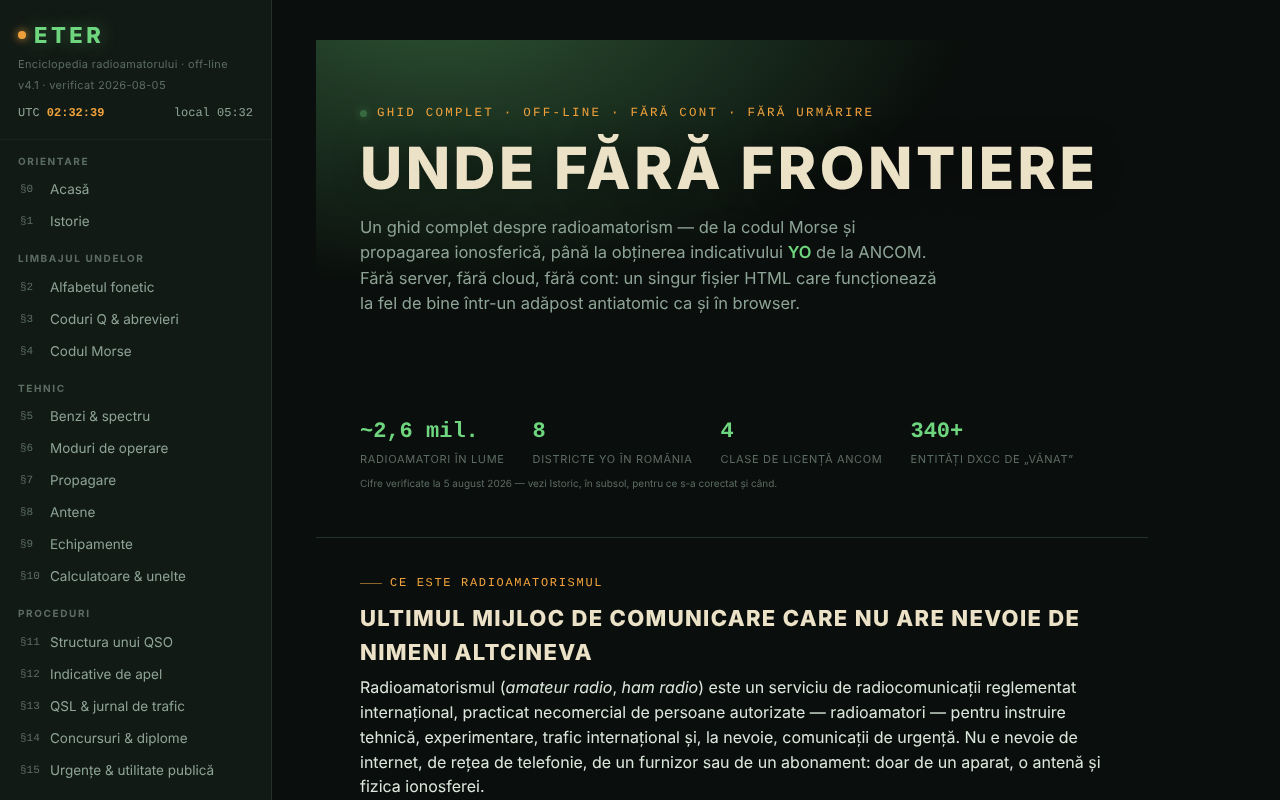
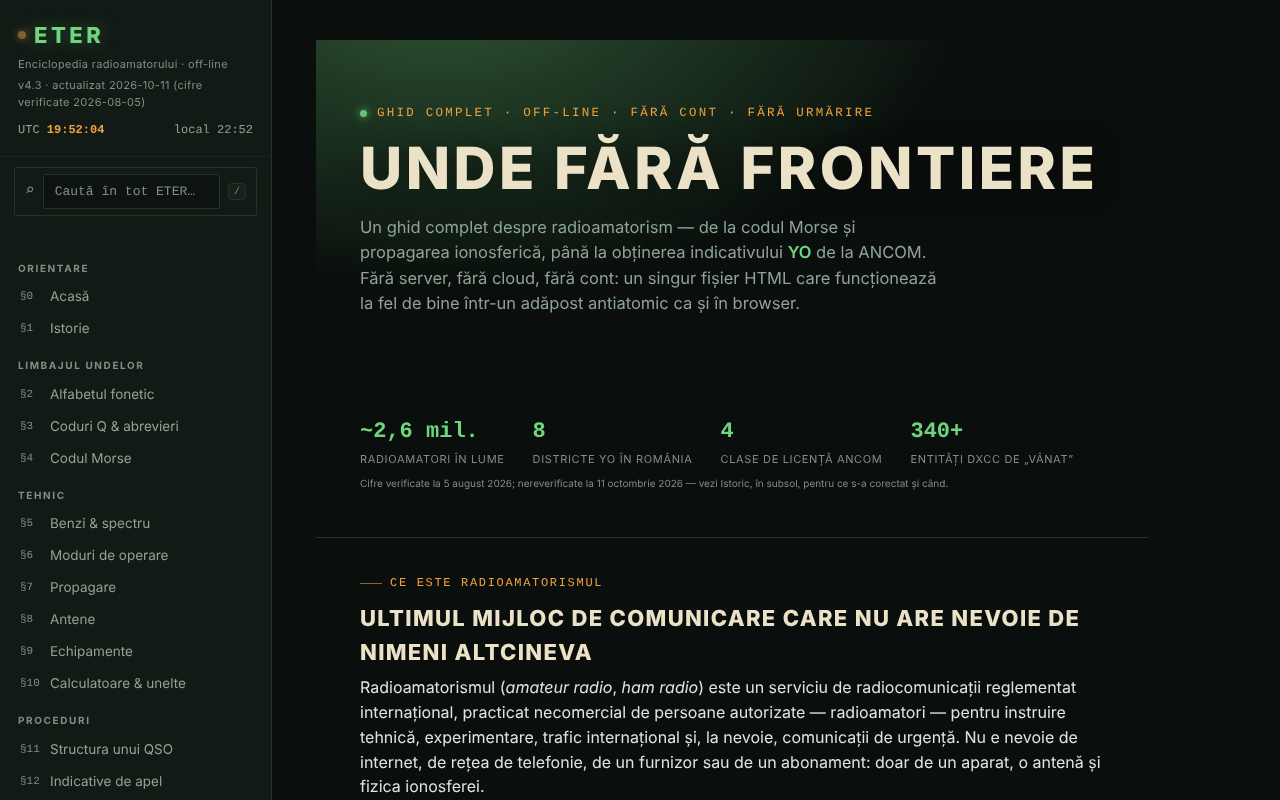
Runda 6 (11 octombrie 2026): reparații și îmbunătățiri
Claude-Session: https://claude.ai/code/session_01D2sCEb3hy3nutYexhUfQFs

diff --git a/index.html b/index.html
@@ -2,7 +2,7 @@
 <html lang="ro">
 <head>
 <meta charset="UTF-8">
-<meta http-equiv="Content-Security-Policy" content="default-src 'none'; script-src 'unsafe-inline'; style-src 'unsafe-inline'; img-src 'self' data: blob:; media-src 'self' data: blob:; connect-src 'self' data: blob:; base-uri 'none'; form-action 'none'">
+<meta http-equiv="Content-Security-Policy" content="default-src 'none'; script-src 'sha256-eEs71EP8Zl0TxjYAjbNK3bKInv9BA9VzHkrwECbSzdg=' 'sha256-lYM53oh0REoSy7NyxH67GQqoSmsCKCUrWfrny9nitBo=' 'sha256-9q5/PcLl6BDakn9vsuVv1m5MlM3ZUH3Fuij86UWutGo='; style-src 'unsafe-inline'; img-src 'self' data: blob:; media-src 'self' data: blob:; connect-src 'self' data: blob:; base-uri 'none'; form-action 'none'">
 <meta name="viewport" content="width=device-width, initial-scale=1.0">
 <title>ETER — Enciclopedia radioamatorului</title>
 <meta name="description" content="Ghid complet, off-line, despre radioamatorism: coduri Q, Morse, benzi, antene, propagare, indicative, licențiere ANCOM și multe altele.">
@@ -127,6 +127,16 @@ button{font-family:inherit;}
   display:flex;align-items:center;justify-content:center;
 }
 
+.gsearch{padding:0 14px 6px;}
+.gsearch .searchbox{margin:6px 0 4px;padding:6px 10px;}
+.gsearch .searchbox input{font-size:13px;min-width:0;}
+.gsearch kbd{font-family:var(--font-mono);font-size:10px;color:var(--ink-faint);border:1px solid var(--line);border-radius:4px;padding:0 5px;}
+.gres{display:flex;flex-direction:column;gap:2px;margin:4px 0 6px;}
+.gres button{display:block;text-align:left;width:100%;background:none;border:1px solid transparent;border-radius:6px;color:var(--ink-dim);padding:6px 8px;cursor:pointer;font-family:var(--font-body);font-size:12.5px;line-height:1.35;}
+.gres button:hover,.gres button:focus-visible{background:var(--panel-2);color:var(--ink);border-color:var(--line);}
+.gres .k{display:block;font-size:10px;letter-spacing:.1em;text-transform:uppercase;color:var(--ink-faint);}
+.gres .t{font-weight:600;color:var(--ink);}
+.gstat{font-size:11px;color:var(--ink-faint);min-height:1em;}
 /* ---------- layout shell ---------- */
 .shell{display:grid;grid-template-columns:var(--sidebar-w) 1fr;min-height:100vh;}
 
@@ -423,8 +433,14 @@ kbd{font-family:var(--font-mono);background:var(--panel-2);border:1px solid var(
   <div class="brandblock">
     <div class="brand"><span class="dot"></span> ETER</div>
     <div class="tagline">Enciclopedia radioamatorului · off-line</div>
-    <div class="tagline">v4.2 · actualizat 2026-10-11 (cifre verificate 2026-08-05)</div>
+    <div class="tagline">v4.3 · actualizat 2026-10-11 (cifre verificate 2026-08-05)</div>
     <div class="clock"><span>UTC <b id="utcClock">--:--:--</b></span><span id="localClock">--:--</span></div>
+  </div>
+
+  <div class="gsearch" role="search">
+    <div class="searchbox"><span class="ico" aria-hidden="true">⌕</span><input type="text" id="gSearch" autocomplete="off" aria-label="Caută în toată enciclopedia" placeholder="Caută în tot ETER…" aria-controls="gRes"><kbd aria-hidden="true">/</kbd></div>
+    <div class="gstat" id="gStat" role="status"></div>
+    <div class="gres" id="gRes"></div>
   </div>
 
   <div class="navgroup">
@@ -1452,7 +1468,7 @@ kbd{font-family:var(--font-mono);background:var(--panel-2);border:1px solid var(
     </div>
   </div>
   <div style="margin-top:18px;font-size:11.5px;color:var(--ink-faint);line-height:1.7;">
-    <b style="color:var(--ink-dim);">Istoric</b> — <span style="font-family:var(--font-mono);">v4.2</span> (2026-10-11): antet de pagină (reper <code>header</code>) pentru bara mobilă, titluri de subsol în ordine corectă (h2), politică CSP strictă (fără rețea externă), fără modificări de conținut ANCOM; cifrele și regulamentele rămân cele verificate la 2026-08-05. · <span style="font-family:var(--font-mono);">v4.1</span> (2026-08-05): 48 de recenzii punctuale, dintre care 9 chiar au dus la schimbări (restul confirmate deja corecte, nu „reparate" degeaba) — cuprinsuri noi pentru secțiunile Morse și identitate/certificate (ambele crescuseră mult), dată de verificare lângă cifrele din hero, punct final „Azi" pe linia temporală, `aria-label` pentru spectrul audio, diagnostic de trimitere extins cu numărul total de diferențe, auto-teste noi pentru pachetul de rezervă. O corecție de-a mea găsită și reparată: atribuisem greșit aglomerarea de unelte secțiunii ANCOM, quiz-ul era vinovatul real.
+    <b style="color:var(--ink-dim);">Istoric</b> — <span style="font-family:var(--font-mono);">v4.3</span> (2026-10-11): căutare globală în meniu (tastă <code>/</code>) peste secțiuni, titluri, coduri Q, abrevieri, glosar și prefixe; CSP cu hash pentru scripturi (fără <code>unsafe-inline</code>); fără modificări de conținut ANCOM. · <span style="font-family:var(--font-mono);">v4.2</span> (2026-10-11): antet de pagină (reper <code>header</code>) pentru bara mobilă, titluri de subsol în ordine corectă (h2), politică CSP strictă (fără rețea externă), fără modificări de conținut ANCOM; cifrele și regulamentele rămân cele verificate la 2026-08-05. · <span style="font-family:var(--font-mono);">v4.1</span> (2026-08-05): 48 de recenzii punctuale, dintre care 9 chiar au dus la schimbări (restul confirmate deja corecte, nu „reparate" degeaba) — cuprinsuri noi pentru secțiunile Morse și identitate/certificate (ambele crescuseră mult), dată de verificare lângă cifrele din hero, punct final „Azi" pe linia temporală, `aria-label` pentru spectrul audio, diagnostic de trimitere extins cu numărul total de diferențe, auto-teste noi pentru pachetul de rezervă. O corecție de-a mea găsită și reparată: atribuisem greșit aglomerarea de unelte secțiunii ANCOM, quiz-ul era vinovatul real.
     <details style="margin-top:4px;"><summary style="cursor:pointer;">versiuni mai vechi (v1.0–v4.0)</summary>
     <span style="font-family:var(--font-mono);">v4.0</span> (2026-08-05): reparat witnessCredential (gardă de tip), corectată cifra din hero, pachet de rezervă, compoziția fișierului. · <span style="font-family:var(--font-mono);">v3.9</span> (2026-08-05): antrenor Koch și de trimitere, legate. · <span style="font-family:var(--font-mono);">v3.8</span> (2026-08-05): ton lateral. · <span style="font-family:var(--font-mono);">v3.7</span> (2026-08-05): antrenor de trimitere. · <span style="font-family:var(--font-mono);">v3.6</span> (2026-08-05): antrenor Koch. · <span style="font-family:var(--font-mono);">v3.5</span> (2026-08-05): accesibilitate, integritate fișier. · <span style="font-family:var(--font-mono);">v3.0–v3.4</span> (2026-08-05): repetiție spațiată, identitate criptografică, certificate W3C VC, QR, martor, revocare, microcredențiale.
     </details>
@@ -1488,7 +1504,7 @@ kbd{font-family:var(--font-mono);background:var(--panel-2);border:1px solid var(
     </details>
   </div>
   <div class="legal">
-    Conținut educațional, verificat la 2026-08-05 (reglementări și cifre; v4.2 din 2026-10-11 repară doar accesibilitatea, fără re-verificarea regulamentelor) — dar regulamentele se schimbă. Pentru orice decizie care contează (înscriere la examen, drepturi exacte pe clasă de certificat, plan de benzi curent), <b>ANCOM</b> și <b>FRR</b> rămân sursele autoritare, nu acest fișier. Fără cookie-uri, fără analytics, fără apeluri către vreun server terț (singura cerere de rețea e verificarea de integritate, opțională, care re-descarcă acest fișier) — tot ce vezi rulează local, în browserul tău.
+    Conținut educațional, verificat la 2026-08-05 (reglementări și cifre; v4.2 și v4.3 din 2026-10-11 nu modifică conținutul de reglementare, fără re-verificarea regulamentelor) — dar regulamentele se schimbă. Pentru orice decizie care contează (înscriere la examen, drepturi exacte pe clasă de certificat, plan de benzi curent), <b>ANCOM</b> și <b>FRR</b> rămân sursele autoritare, nu acest fișier. Fără cookie-uri, fără analytics, fără apeluri către vreun server terț (singura cerere de rețea e verificarea de integritate, opțională, care re-descarcă acest fișier) — tot ce vezi rulează local, în browserul tău.
   </div>
 </footer>
 </main>
@@ -14800,6 +14816,66 @@ async function copyReportInfo(){
   }
   setTimeout(()=>{ btn.textContent = original; }, 2500);
 }
+// ---------- căutare globală (secțiuni, titluri, coduri Q, abrevieri, glosar, prefixe) ----------
+let _gIdx=null;
+function _plain(h){ return new DOMParser().parseFromString(String(h),'text/html').body.textContent.replace(/\s+/g,' ').trim(); }
+function _gBuild(){
+  const idx=[];
+  $$('.navlink').forEach(b=>{ const sec=b.dataset.sec; const lab=b.textContent.replace(/^§\d+/,'').trim(); const no=(b.textContent.match(/^§\d+/)||[''])[0]; idx.push({kind:'Secțiune',title:lab,sub:no,sec,fold:fold(lab),w:3}); });
+  $$('.section').forEach(sec=>{ const sid=sec.id.replace(/^sec-/,''); sec.querySelectorAll('h3').forEach(h=>{ const hc=h.cloneNode(true); hc.querySelectorAll('.n').forEach(x=>x.remove()); const t=_plain(hc.textContent); if(t.length>2) idx.push({kind:'Titlu',title:t,sub:(sec.querySelector('h2')||{textContent:''}).textContent.trim(),sec:sid,head:h,fold:fold(t),w:2}); }); });
+  QCODES.forEach(([c,d])=>idx.push({kind:'Cod Q',title:c,sub:_plain(d),sec:'qcoduri',input:'qSearch',q:c,fold:fold(c+' '+_plain(d)),w:1}));
+  ABBR.forEach(([c,d])=>idx.push({kind:'Abreviere',title:c,sub:_plain(d),sec:'qcoduri',input:'abbrSearch',q:c,fold:fold(c+' '+_plain(d)),w:1}));
+  GLOSSARY.forEach(([c,d])=>idx.push({kind:'Glosar',title:c,sub:_plain(d),sec:'glosar',input:'glosarSearch',q:c,fold:fold(c+' '+_plain(d)),w:1}));
+  PREFIXES.forEach(([c,d])=>idx.push({kind:'Prefix',title:c+' — '+d,sub:'',sec:'indicative',input:'prefixSearch',q:c,fold:fold(c+' '+d),w:1}));
+  return idx;
+}
+function globalSearch(raw){
+  const q=fold(raw).trim(); if(!q) return {list:[],total:0};
+  if(!_gIdx) _gIdx=_gBuild();
+  const hits=[];
+  _gIdx.forEach(it=>{ const i=it.fold.indexOf(q); if(i<0) return; const tf=fold(it.title); const score=(tf===q?0:tf.startsWith(q)?1:tf.includes(q)?2:4)-it.w*0.1; hits.push([score,it]); });
+  hits.sort((a,b)=>a[0]-b[0]);
+  return {list:hits.slice(0,12).map(h=>h[1]),total:hits.length};
+}
+function gotoHit(it){
+  const btn=document.querySelector('.navlink[data-sec="'+it.sec+'"]'); if(!btn) return; btn.click();
+  if(it.input){ const inp=$('#'+it.input); if(inp){ inp.value=it.q; inp.dispatchEvent(new Event('input',{bubbles:true})); setTimeout(()=>{ inp.scrollIntoView({block:'center'}); inp.focus({preventScroll:true}); },30); } }
+  else if(it.head){ setTimeout(()=>{ it.head.setAttribute('tabindex','-1'); it.head.scrollIntoView({block:'start'}); it.head.focus({preventScroll:true}); },30); }
+  else { const h=$('#sec-'+it.sec+' h2'); if(h){ h.setAttribute('tabindex','-1'); h.focus({preventScroll:true}); } }
+}
+function initGlobalSearch(){
+  const inp=$('#gSearch'), res=$('#gRes'), st=$('#gStat'); if(!inp) return;
+  function paint(){
+    const r=globalSearch(inp.value); res.textContent='';
+    if(!inp.value.trim()){ st.textContent=''; return; }
+    if(!r.list.length){ st.textContent='Niciun rezultat pentru „'+inp.value.trim()+'”.'; return; }
+    st.textContent=r.total+(r.total===1?' rezultat':' rezultate')+(r.total>r.list.length?' (primele '+r.list.length+')':'');
+    r.list.forEach(it=>{ const b=document.createElement('button'); b.type='button';
+      const k=document.createElement('span'); k.className='k'; k.textContent=it.kind+(it.kind==='Secțiune'&&it.sub?' '+it.sub:''); b.appendChild(k);
+      const t=document.createElement('span'); t.className='t'; t.textContent=it.title; b.appendChild(t);
+      if(it.sub&&it.kind!=='Secțiune'){ const d=document.createElement('span'); d.textContent=' — '+(it.sub.length>70?it.sub.slice(0,70)+'…':it.sub); b.appendChild(d); }
+      b.addEventListener('click',()=>gotoHit(it)); res.appendChild(b); });
+  }
+  inp.addEventListener('input',paint);
+  inp.addEventListener('keydown',e=>{
+    if(e.key==='Enter'){ const r=globalSearch(inp.value); if(r.list[0]){ e.preventDefault(); gotoHit(r.list[0]); } }
+    else if(e.key==='ArrowDown'){ const f=res.querySelector('button'); if(f){ e.preventDefault(); f.focus(); } }
+    else if(e.key==='Escape'&&inp.value){ inp.value=''; paint(); e.stopPropagation(); }
+  });
+  res.addEventListener('keydown',e=>{
+    const bs=[...res.querySelectorAll('button')], i=bs.indexOf(document.activeElement);
+    if(e.key==='ArrowDown'&&i<bs.length-1){ e.preventDefault(); bs[i+1].focus(); }
+    else if(e.key==='ArrowUp'){ e.preventDefault(); (i>0?bs[i-1]:inp).focus(); }
+  });
+  document.addEventListener('keydown',e=>{
+    if(e.key!=='/'||e.ctrlKey||e.metaKey||e.altKey) return;
+    const tg=document.activeElement&&document.activeElement.tagName;
+    if(tg==='INPUT'||tg==='TEXTAREA'||tg==='SELECT'||(document.activeElement&&document.activeElement.isContentEditable)||keyerActive) return;
+    e.preventDefault();
+    if($('#drawerBtn').offsetParent!==null) openDrawer();
+    inp.focus(); inp.select();
+  });
+}
 function initNav(){
   $$('.navlink').forEach(btn=>{
     btn.addEventListener('click', ()=>{
@@ -16073,6 +16149,7 @@ function runSelfTests(){
 function init(){
   runSelfTests();
   initNav();
+  initGlobalSearch();
   initDrawer();
   initTheme();
   initClocks();

diff --git a/README.md b/README.md
@@ -1,6 +1,6 @@
 # ETER — Enciclopedia radioamatorului
 
-**Ultima actualizare:** 11 octombrie 2026 · versiune 4.2
+**Ultima actualizare:** 11 octombrie 2026 · versiune 4.3
 
 Ghid complet despre radioamatorism, într-un singur fișier HTML: coduri Q, Morse, benzi, propagare, antene, indicative, licențiere ANCOM.
 
@@ -10,7 +10,7 @@ Ghid complet despre radioamatorism, într-un singur fișier HTML: coduri Q, Mors
 
 ## Ce este
 
-ETER este o enciclopedie interactivă a radioamatorului (versiunea afișată în aplicație: v4.2, actualizată 2026-10-11; cifrele și regulamentele rămân cele verificate la 2026-08-05), organizată în 19 secțiuni numerotate §0–§18. Textul din aplicație o descrie ca „fără server, fără cloud, fără cont", iar conținutul se încarcă din același fișier HTML.
+ETER este o enciclopedie interactivă a radioamatorului (versiunea afișată în aplicație: v4.3, actualizată 2026-10-11; cifrele și regulamentele rămân cele verificate la 2026-08-05), organizată în 19 secțiuni numerotate §0–§18. Textul din aplicație o descrie ca „fără server, fără cloud, fără cont", iar conținutul se încarcă din același fișier HTML.
 
 ## Funcții
 
@@ -21,6 +21,7 @@ Unelte verificate în cod / interfață:
 - Calculatoare: lungimi de antenă, locator Maidenhead (cu „Folosește locația mea"), azimut și distanță (cu busolă live și overlay de cameră AR, opționale), frecvență ⇄ lungime de undă, referință S-metru / dB.
 - Simulator didactic de tendințe de propagare și indicatori solari (SFI, K-index) explicați.
 - Test de cunoștințe cu repetiție spațiată; exportul/importul progresului, al identității și al unui pachet de rezervă; generare și verificare de certificat de operator (cod QR).
+- Căutare globală în meniul din stânga (tasta `/`, sau câmpul „Caută în tot ETER”): găsește secțiuni, titluri de subsecțiuni, coduri Q, abrevieri, termeni din glosar și prefixe DX, ignoră diacriticele; Enter deschide primul rezultat, săgețile navighează lista, Esc golește câmpul. Pe mobil `/` deschide meniul.
 - Mod zi / noapte, printarea secțiunii curente, mod exersare pe ecran complet, butoane „copiază".
 - „Verifică integritatea fișierului" (SHA-256) și „Din ce e făcut fișierul".
 - „Raportează o eroare": deschide formularul GitHub Issues.
@@ -41,7 +42,7 @@ Unelte verificate în cod / interfață:
 - Rețea: textul din aplicație afirmă că nimic nu se încarcă de pe internet, iar în cod nu am găsit scripturi sau resurse externe. Singurele apeluri `fetch` sunt către propriul fișier (`location.href`), pentru „Verifică integritatea fișierului" și „Din ce e făcut fișierul".
 - Linkurile externe (ANCOM, QRZ, radioamator.ro, hamradio.ro, IARU R1, examenyo.net, GitHub, trom.tf, Patreon etc.) se deschid doar dacă le apeși.
 - Funcții care cer permisiuni ale browserului, numai la acțiunea ta: microfon (ascultător Morse), locație, busolă/orientare și cameră (overlay AR, scanare cod QR), sinteză vocală.
-- Pagina are o politică CSP strictă (`default-src 'none'`; fără conexiuni către alte domenii; doar `self`, `data:` și `blob:`).
+- Pagina are o politică CSP strictă (`default-src 'none'`; scripturile sunt permise doar pe hash SHA-256, fără `'unsafe-inline'`; fără conexiuni către alte domenii; doar `self`, `data:` și `blob:`).
 - Aplicația include biblioteci cu licențe proprii (de exemplu generator de coduri QR, MIT), integrate în fișier.
 
 ## Rulare locală / offline
@@ -65,6 +66,11 @@ ETER is a single-file Romanian-language amateur radio encyclopedia (19 sections:
 Audit: 2026-10-10 — verificat: 0 erori JS; singurele `fetch` sunt către propriul fișier (`location.href`); nu există `localStorage`/`sessionStorage`/IndexedDB în cod, cum afirmă README. Corectat contrastul culorilor „estompate” (tema de noapte și cea de zi). Aplicația nu are meta CSP. Conținutul despre examenul ANCOM este un rezumat didactic care trimite la Decizia ANCOM nr. 245/2017 ca sursă oficială; certificatele/microcredențialele generate nu sunt recunoscute de ANCOM sau de vreo autoritate (precizat în aplicație, §17).
 
 ## Istoric / Changelog
+
+### 11 octombrie 2026 (v4.3)
+- Căutare globală în meniu (tasta `/`): secțiuni, titluri, coduri Q, abrevieri, glosar, prefixe.
+- CSP: `script-src` pe hash SHA-256 pentru cele trei scripturi, în locul `'unsafe-inline'`.
+- Conținutul ANCOM nu a fost modificat și nici re-verificat.
 
 ### 11 octombrie 2026 (v4.2)
 - Bara mobilă este acum un reper `header`; titlul principal (h1) există pe toate secțiunile, iar titlurile din subsol sunt h2 (axe: 0 încălcări, toate secțiunile verificate la 1280 și 360 px).
